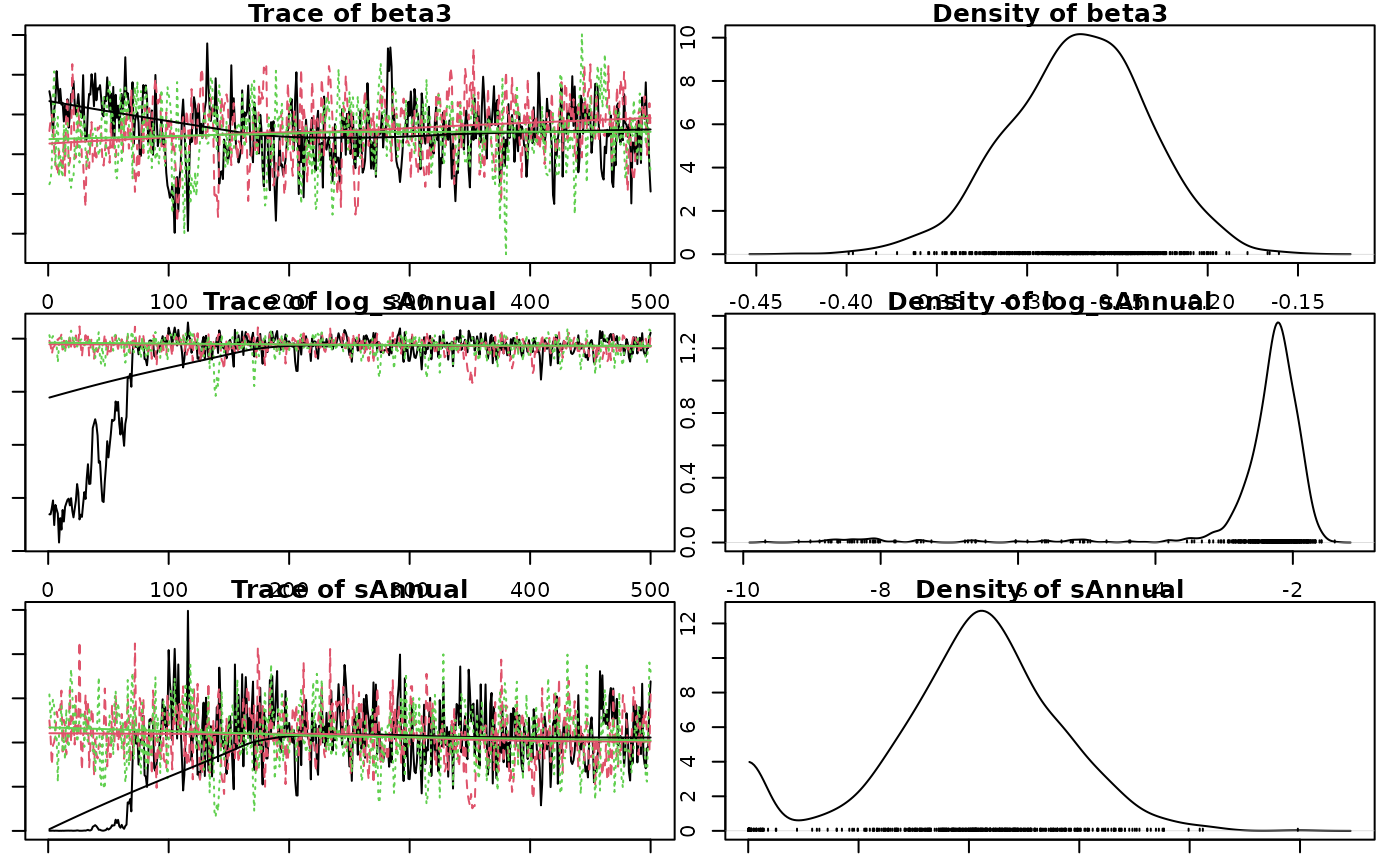
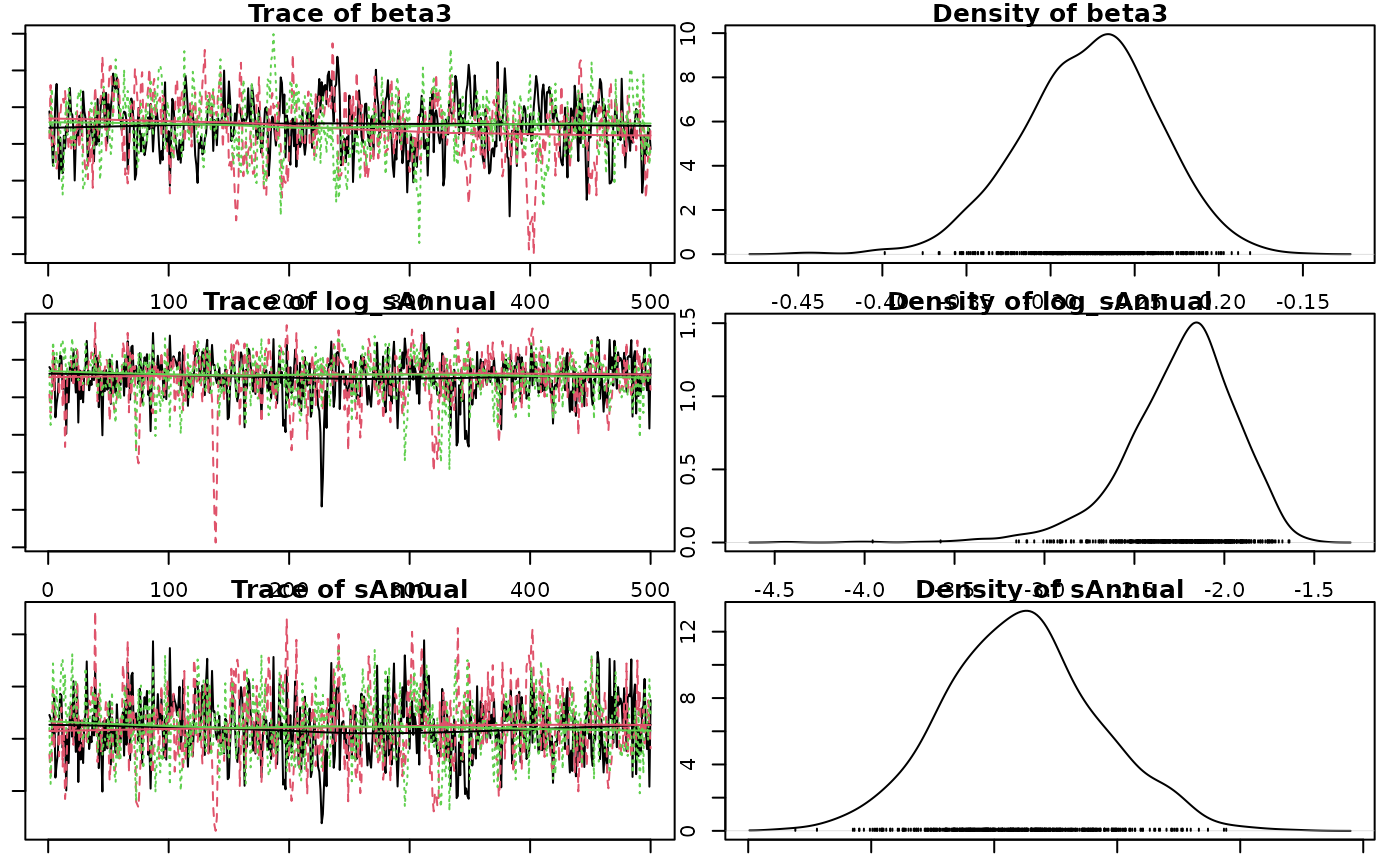
Built site for jmbr@0.0.0.9126: c5f6c6c

diff --git a/articles/jmbr.html b/articles/jmbr.html
@@ -300,14 +300,14 @@ value and discarding all other values.</p>
 <span><span class="co">#&gt; <span style="color: #949494;"># A tibble: 1 × 8</span></span></span>
 <span><span class="co">#&gt;       n     K nchains niters nthin   ess  rhat converged</span></span>
 <span><span class="co">#&gt;   <span style="color: #949494; font-style: italic;">&lt;int&gt;</span> <span style="color: #949494; font-style: italic;">&lt;int&gt;</span>   <span style="color: #949494; font-style: italic;">&lt;int&gt;</span>  <span style="color: #949494; font-style: italic;">&lt;int&gt;</span> <span style="color: #949494; font-style: italic;">&lt;int&gt;</span> <span style="color: #949494; font-style: italic;">&lt;int&gt;</span> <span style="color: #949494; font-style: italic;">&lt;dbl&gt;</span> <span style="color: #949494; font-style: italic;">&lt;lgl&gt;</span>    </span></span>
-<span><span class="co">#&gt; <span style="color: #BCBCBC;">1</span>    40     6       3    500    10   174  1.33 FALSE</span></span>
+<span><span class="co">#&gt; <span style="color: #BCBCBC;">1</span>    40     6       3    500    10   214  1.06 FALSE</span></span>
 <span><span class="co">#&gt; Warning in value[[3L]](cond): beep() could not play the sound due to the following error:</span></span>
 <span><span class="co">#&gt; Error in play.default(x, rate, ...): no audio drivers are available</span></span>
 <span><span class="va">analysis</span> <span class="op">&lt;-</span> <span class="fu"><a href="https://rdrr.io/pkg/embr/man/reanalyse.html" class="external-link">reanalyse</a></span><span class="op">(</span><span class="va">analysis</span><span class="op">)</span></span>
 <span><span class="co">#&gt; <span style="color: #949494;"># A tibble: 1 × 8</span></span></span>
 <span><span class="co">#&gt;       n     K nchains niters nthin   ess  rhat converged</span></span>
 <span><span class="co">#&gt;   <span style="color: #949494; font-style: italic;">&lt;int&gt;</span> <span style="color: #949494; font-style: italic;">&lt;int&gt;</span>   <span style="color: #949494; font-style: italic;">&lt;int&gt;</span>  <span style="color: #949494; font-style: italic;">&lt;int&gt;</span> <span style="color: #949494; font-style: italic;">&lt;int&gt;</span> <span style="color: #949494; font-style: italic;">&lt;int&gt;</span> <span style="color: #949494; font-style: italic;">&lt;dbl&gt;</span> <span style="color: #949494; font-style: italic;">&lt;lgl&gt;</span>    </span></span>
-<span><span class="co">#&gt; <span style="color: #BCBCBC;">1</span>    40     6       3    500    20   302  1.12 FALSE</span></span>
+<span><span class="co">#&gt; <span style="color: #BCBCBC;">1</span>    40     6       3    500    20   378  1.01 TRUE</span></span>
 <span><span class="co">#&gt; Warning in value[[3L]](cond): beep() could not play the sound due to the following error:</span></span>
 <span><span class="co">#&gt; Error in play.default(x, rate, ...): no audio drivers are available</span></span></code></pre></div>
 <p><strong>Analysis Table:</strong></p>
@@ -355,28 +355,28 @@ between- and within-chain estimates for model parameters.
 <span><span class="co">#&gt; <span style="color: #555555;">Call `lifecycle::last_lifecycle_warnings()` to see where this warning was</span></span></span>
 <span><span class="co">#&gt; <span style="color: #555555;">generated.</span></span></span>
 <span><span class="co">#&gt; <span style="color: #949494;"># A tibble: 6 × 7</span></span></span>
-<span><span class="co">#&gt;   term        estimate     sd  zscore     lower   upper   pvalue</span></span>
-<span><span class="co">#&gt;   <span style="color: #949494; font-style: italic;">&lt;term&gt;</span>         <span style="color: #949494; font-style: italic;">&lt;dbl&gt;</span>  <span style="color: #949494; font-style: italic;">&lt;dbl&gt;</span>   <span style="color: #949494; font-style: italic;">&lt;dbl&gt;</span>     <span style="color: #949494; font-style: italic;">&lt;dbl&gt;</span>   <span style="color: #949494; font-style: italic;">&lt;dbl&gt;</span>    <span style="color: #949494; font-style: italic;">&lt;dbl&gt;</span></span></span>
-<span><span class="co">#&gt; <span style="color: #BCBCBC;">1</span> alpha         4.26   0.038<span style="text-decoration: underline;">5</span> 111.     4.18      4.33   0.000<span style="text-decoration: underline;">666</span></span></span>
-<span><span class="co">#&gt; <span style="color: #BCBCBC;">2</span> beta1         1.19   0.075<span style="text-decoration: underline;">5</span>  15.8    1.06      1.35   0.000<span style="text-decoration: underline;">666</span></span></span>
-<span><span class="co">#&gt; <span style="color: #BCBCBC;">3</span> beta2        -<span style="color: #BB0000;">0.019</span><span style="color: #BB0000; text-decoration: underline;">2</span> 0.029<span style="text-decoration: underline;">9</span>  -<span style="color: #BB0000;">0.601</span> -<span style="color: #BB0000;">0.074</span><span style="color: #BB0000; text-decoration: underline;">9</span>    0.043<span style="text-decoration: underline;">9</span> 0.539   </span></span>
-<span><span class="co">#&gt; <span style="color: #BCBCBC;">4</span> beta3        -<span style="color: #BB0000;">0.270</span>  0.038<span style="text-decoration: underline;">6</span>  -<span style="color: #BB0000;">7.06</span>  -<span style="color: #BB0000;">0.352</span>    -<span style="color: #BB0000;">0.200</span>  0.000<span style="text-decoration: underline;">666</span></span></span>
-<span><span class="co">#&gt; <span style="color: #BCBCBC;">5</span> log_sAnnual  -<span style="color: #BB0000;">2.25</span>   1.09    -<span style="color: #BB0000;">2.28</span>  -<span style="color: #BB0000;">7.03</span>     -<span style="color: #BB0000;">1.76</span>   0.000<span style="text-decoration: underline;">666</span></span></span>
-<span><span class="co">#&gt; <span style="color: #BCBCBC;">6</span> sAnnual       0.106  0.038<span style="text-decoration: underline;">3</span>   2.70   0.000<span style="text-decoration: underline;">912</span>  0.173  0.000<span style="text-decoration: underline;">666</span></span></span></code></pre></div>
+<span><span class="co">#&gt;   term        estimate     sd  zscore   lower   upper   pvalue</span></span>
+<span><span class="co">#&gt;   <span style="color: #949494; font-style: italic;">&lt;term&gt;</span>         <span style="color: #949494; font-style: italic;">&lt;dbl&gt;</span>  <span style="color: #949494; font-style: italic;">&lt;dbl&gt;</span>   <span style="color: #949494; font-style: italic;">&lt;dbl&gt;</span>   <span style="color: #949494; font-style: italic;">&lt;dbl&gt;</span>   <span style="color: #949494; font-style: italic;">&lt;dbl&gt;</span>    <span style="color: #949494; font-style: italic;">&lt;dbl&gt;</span></span></span>
+<span><span class="co">#&gt; <span style="color: #BCBCBC;">1</span> alpha         4.26   0.040<span style="text-decoration: underline;">9</span> 104.     4.18    4.34   0.000<span style="text-decoration: underline;">666</span></span></span>
+<span><span class="co">#&gt; <span style="color: #BCBCBC;">2</span> beta1         1.20   0.079<span style="text-decoration: underline;">1</span>  15.2    1.05    1.37   0.000<span style="text-decoration: underline;">666</span></span></span>
+<span><span class="co">#&gt; <span style="color: #BCBCBC;">3</span> beta2        -<span style="color: #BB0000;">0.020</span><span style="color: #BB0000; text-decoration: underline;">7</span> 0.030<span style="text-decoration: underline;">5</span>  -<span style="color: #BB0000;">0.653</span> -<span style="color: #BB0000;">0.080</span><span style="color: #BB0000; text-decoration: underline;">7</span>  0.039<span style="text-decoration: underline;">9</span> 0.516   </span></span>
+<span><span class="co">#&gt; <span style="color: #BCBCBC;">4</span> beta3        -<span style="color: #BB0000;">0.274</span>  0.040<span style="text-decoration: underline;">4</span>  -<span style="color: #BB0000;">6.84</span>  -<span style="color: #BB0000;">0.356</span>  -<span style="color: #BB0000;">0.202</span>  0.000<span style="text-decoration: underline;">666</span></span></span>
+<span><span class="co">#&gt; <span style="color: #BCBCBC;">5</span> log_sAnnual  -<span style="color: #BB0000;">2.21</span>   0.314   -<span style="color: #BB0000;">7.13</span>  -<span style="color: #BB0000;">2.97</span>   -<span style="color: #BB0000;">1.75</span>   0.000<span style="text-decoration: underline;">666</span></span></span>
+<span><span class="co">#&gt; <span style="color: #BCBCBC;">6</span> sAnnual       0.110  0.031<span style="text-decoration: underline;">1</span>   3.57   0.051<span style="text-decoration: underline;">4</span>  0.174  0.000<span style="text-decoration: underline;">666</span></span></span></code></pre></div>
 <p>The estimate is the <strong>median</strong> by default.</p>
 <p>The zscore is
 <math display="inline" xmlns="http://www.w3.org/1998/Math/MathML"><semantics><mrow><mi>m</mi><mi>e</mi><mi>a</mi><mi>n</mi><mi>/</mi><mi>s</mi><mi>d</mi></mrow><annotation encoding="application/x-tex">mean / sd</annotation></semantics></math>.</p>
 <div class="sourceCode" id="cb12"><pre class="downlit sourceCode r">
 <code class="sourceCode R"><span><span class="fu"><a href="https://rdrr.io/r/stats/coef.html" class="external-link">coef</a></span><span class="op">(</span><span class="va">analysis</span>, simplify <span class="op">=</span> <span class="cn">TRUE</span><span class="op">)</span></span>
 <span><span class="co">#&gt; <span style="color: #949494;"># A tibble: 6 × 5</span></span></span>
-<span><span class="co">#&gt;   term        estimate     lower   upper svalue</span></span>
-<span><span class="co">#&gt;   <span style="color: #949494; font-style: italic;">&lt;term&gt;</span>         <span style="color: #949494; font-style: italic;">&lt;dbl&gt;</span>     <span style="color: #949494; font-style: italic;">&lt;dbl&gt;</span>   <span style="color: #949494; font-style: italic;">&lt;dbl&gt;</span>  <span style="color: #949494; font-style: italic;">&lt;dbl&gt;</span></span></span>
-<span><span class="co">#&gt; <span style="color: #BCBCBC;">1</span> alpha         4.26    4.18      4.33   10.6  </span></span>
-<span><span class="co">#&gt; <span style="color: #BCBCBC;">2</span> beta1         1.19    1.06      1.35   10.6  </span></span>
-<span><span class="co">#&gt; <span style="color: #BCBCBC;">3</span> beta2        -<span style="color: #BB0000;">0.019</span><span style="color: #BB0000; text-decoration: underline;">2</span> -<span style="color: #BB0000;">0.074</span><span style="color: #BB0000; text-decoration: underline;">9</span>    0.043<span style="text-decoration: underline;">9</span>  0.892</span></span>
-<span><span class="co">#&gt; <span style="color: #BCBCBC;">4</span> beta3        -<span style="color: #BB0000;">0.270</span>  -<span style="color: #BB0000;">0.352</span>    -<span style="color: #BB0000;">0.200</span>  10.6  </span></span>
-<span><span class="co">#&gt; <span style="color: #BCBCBC;">5</span> log_sAnnual  -<span style="color: #BB0000;">2.25</span>   -<span style="color: #BB0000;">7.03</span>     -<span style="color: #BB0000;">1.76</span>   10.6  </span></span>
-<span><span class="co">#&gt; <span style="color: #BCBCBC;">6</span> sAnnual       0.106   0.000<span style="text-decoration: underline;">912</span>  0.173  10.6</span></span></code></pre></div>
+<span><span class="co">#&gt;   term        estimate   lower   upper svalue</span></span>
+<span><span class="co">#&gt;   <span style="color: #949494; font-style: italic;">&lt;term&gt;</span>         <span style="color: #949494; font-style: italic;">&lt;dbl&gt;</span>   <span style="color: #949494; font-style: italic;">&lt;dbl&gt;</span>   <span style="color: #949494; font-style: italic;">&lt;dbl&gt;</span>  <span style="color: #949494; font-style: italic;">&lt;dbl&gt;</span></span></span>
+<span><span class="co">#&gt; <span style="color: #BCBCBC;">1</span> alpha         4.26    4.18    4.34   10.6  </span></span>
+<span><span class="co">#&gt; <span style="color: #BCBCBC;">2</span> beta1         1.20    1.05    1.37   10.6  </span></span>
+<span><span class="co">#&gt; <span style="color: #BCBCBC;">3</span> beta2        -<span style="color: #BB0000;">0.020</span><span style="color: #BB0000; text-decoration: underline;">7</span> -<span style="color: #BB0000;">0.080</span><span style="color: #BB0000; text-decoration: underline;">7</span>  0.039<span style="text-decoration: underline;">9</span>  0.954</span></span>
+<span><span class="co">#&gt; <span style="color: #BCBCBC;">4</span> beta3        -<span style="color: #BB0000;">0.274</span>  -<span style="color: #BB0000;">0.356</span>  -<span style="color: #BB0000;">0.202</span>  10.6  </span></span>
+<span><span class="co">#&gt; <span style="color: #BCBCBC;">5</span> log_sAnnual  -<span style="color: #BB0000;">2.21</span>   -<span style="color: #BB0000;">2.97</span>   -<span style="color: #BB0000;">1.75</span>   10.6  </span></span>
+<span><span class="co">#&gt; <span style="color: #BCBCBC;">6</span> sAnnual       0.110   0.051<span style="text-decoration: underline;">4</span>  0.174  10.6</span></span></code></pre></div>
 <p>The s-value is the <strong>suprisal</strong> value, which is a
 measure of directionality with respect to zero.</p>
 <p>The s-value is zero (unsurprising) when <em>p-value</em> = 1.0 and
